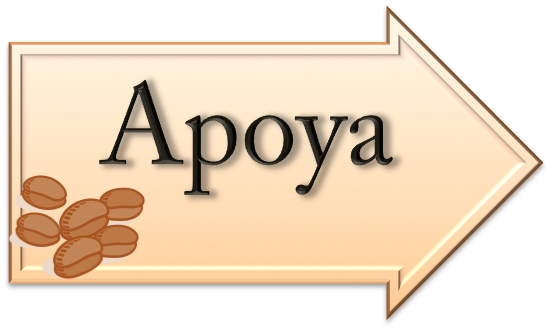
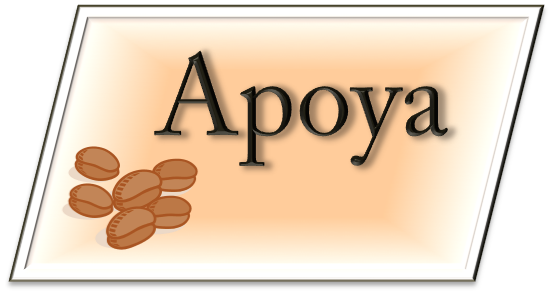
Final tweaks for the day
First time I got to test them in localhost first yayyy

diff --git a/public/stylesheets/home.css b/public/stylesheets/home.css
@@ -481,6 +481,7 @@ a {
   box-sizing: border-box;
   float: left; }
 #what h2 {
+color: white;
   font-size: 2.2em; }
 #what p {
   font-size: 1.5em;
@@ -500,11 +501,8 @@ a {
   #what #teaser .actions {
     margin-left: 0; }
 
-#how > div {
-  background-image: url(../images/fb_cover.jpg) !important;
-}
-#how p, h3 {
-  color: white; }
+#how p, #how h2, #how h3 {
+  color: black; }
 #how ul {
   zoom: 1; }
   #how ul:before, #how ul:after {

diff --git a/public/index.html b/public/index.html
@@ -27,7 +27,7 @@
       </div>
     </div>
     <div id='content'>
-  <div id='what'>
+  <div id='what' style="background-image: url(../images/roasted_coffee_beans.jpg);">
     <div id='box'>
       <img src='/images/logo.jpg' />
     </div>
